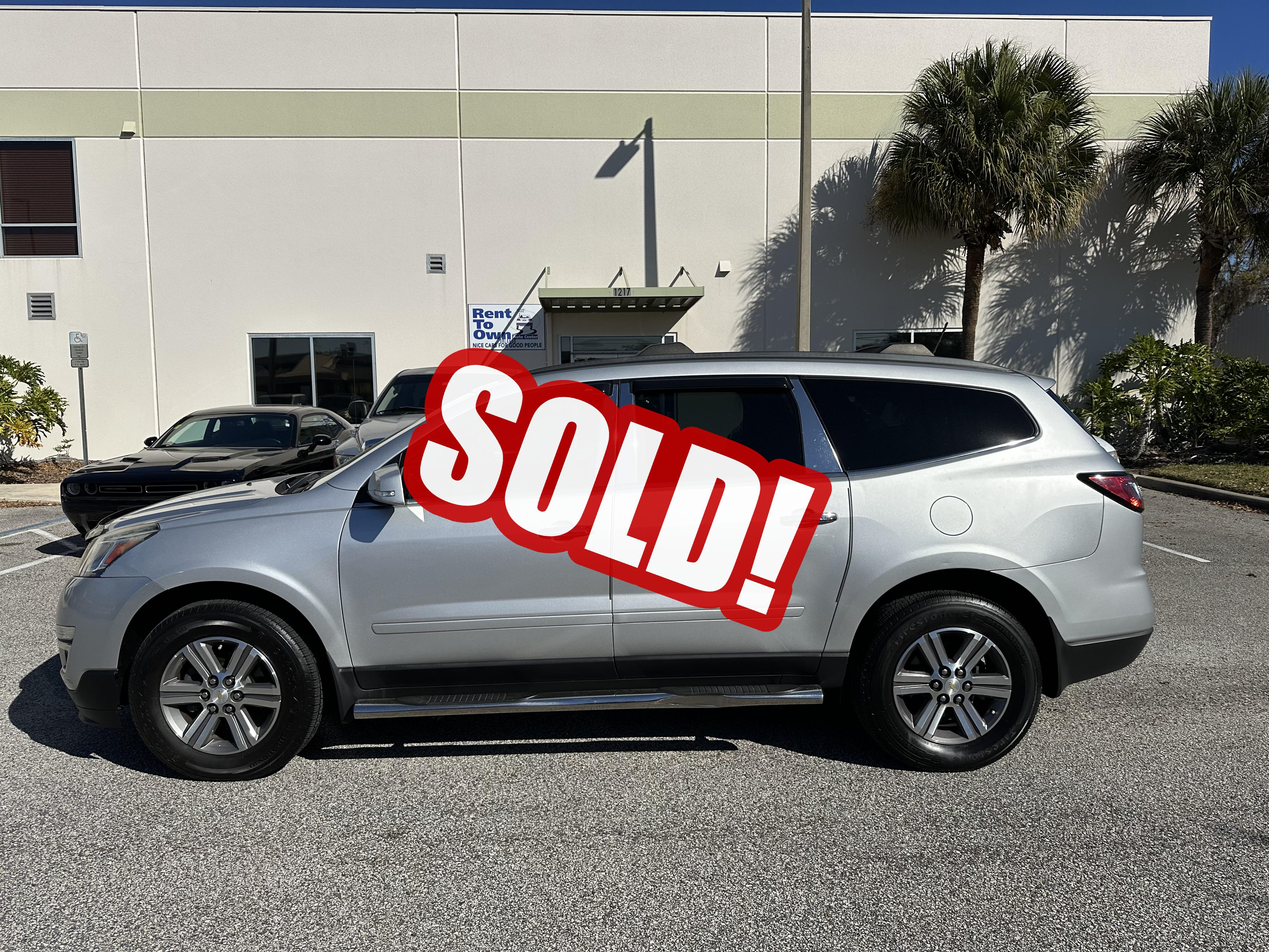
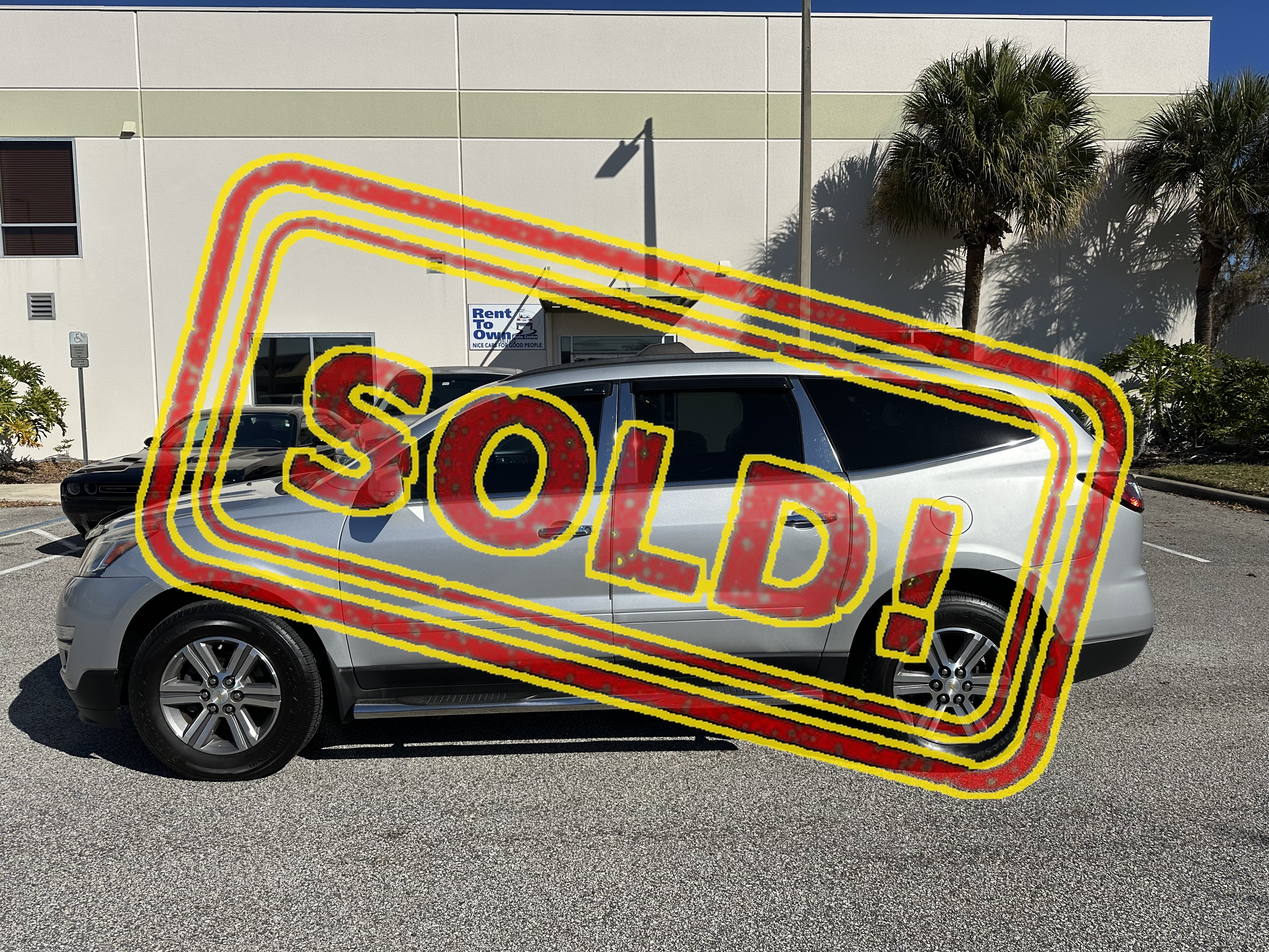
SOLDRTO: mark RTO9032 as sold

Changed region(s): [[0.0938, 0.1554, 0.9062, 0.8393]]

diff --git a/orlando.html b/orlando.html
@@ -618,11 +618,11 @@
       <!-- END -->       <!-- START -->
       <div class="col-md-4 mb-4">
         <div class="card">
-          <img src="./images/cars/9032.jpeg" class="card-img-top" alt="..." />
+          <img src="./images/cars/sold/9032.jpeg" class="card-img-top" alt="..." />
 
           <div class="card-body">
             <h5 class="card-title">2015 Chevy Traverse 7 Passanger  </h5>
-            <p class="card-text">RTO9032 <span style="color:red "> New Arrival RTO $950 Down! </span> </p>
+            <p class="card-text">RTO9032 <span style="color:red "> SOLD! </span> </p>
             <!-- <a href="#" class="btn btn-primary">View Details</a>  -->
           </div>
         </div>
